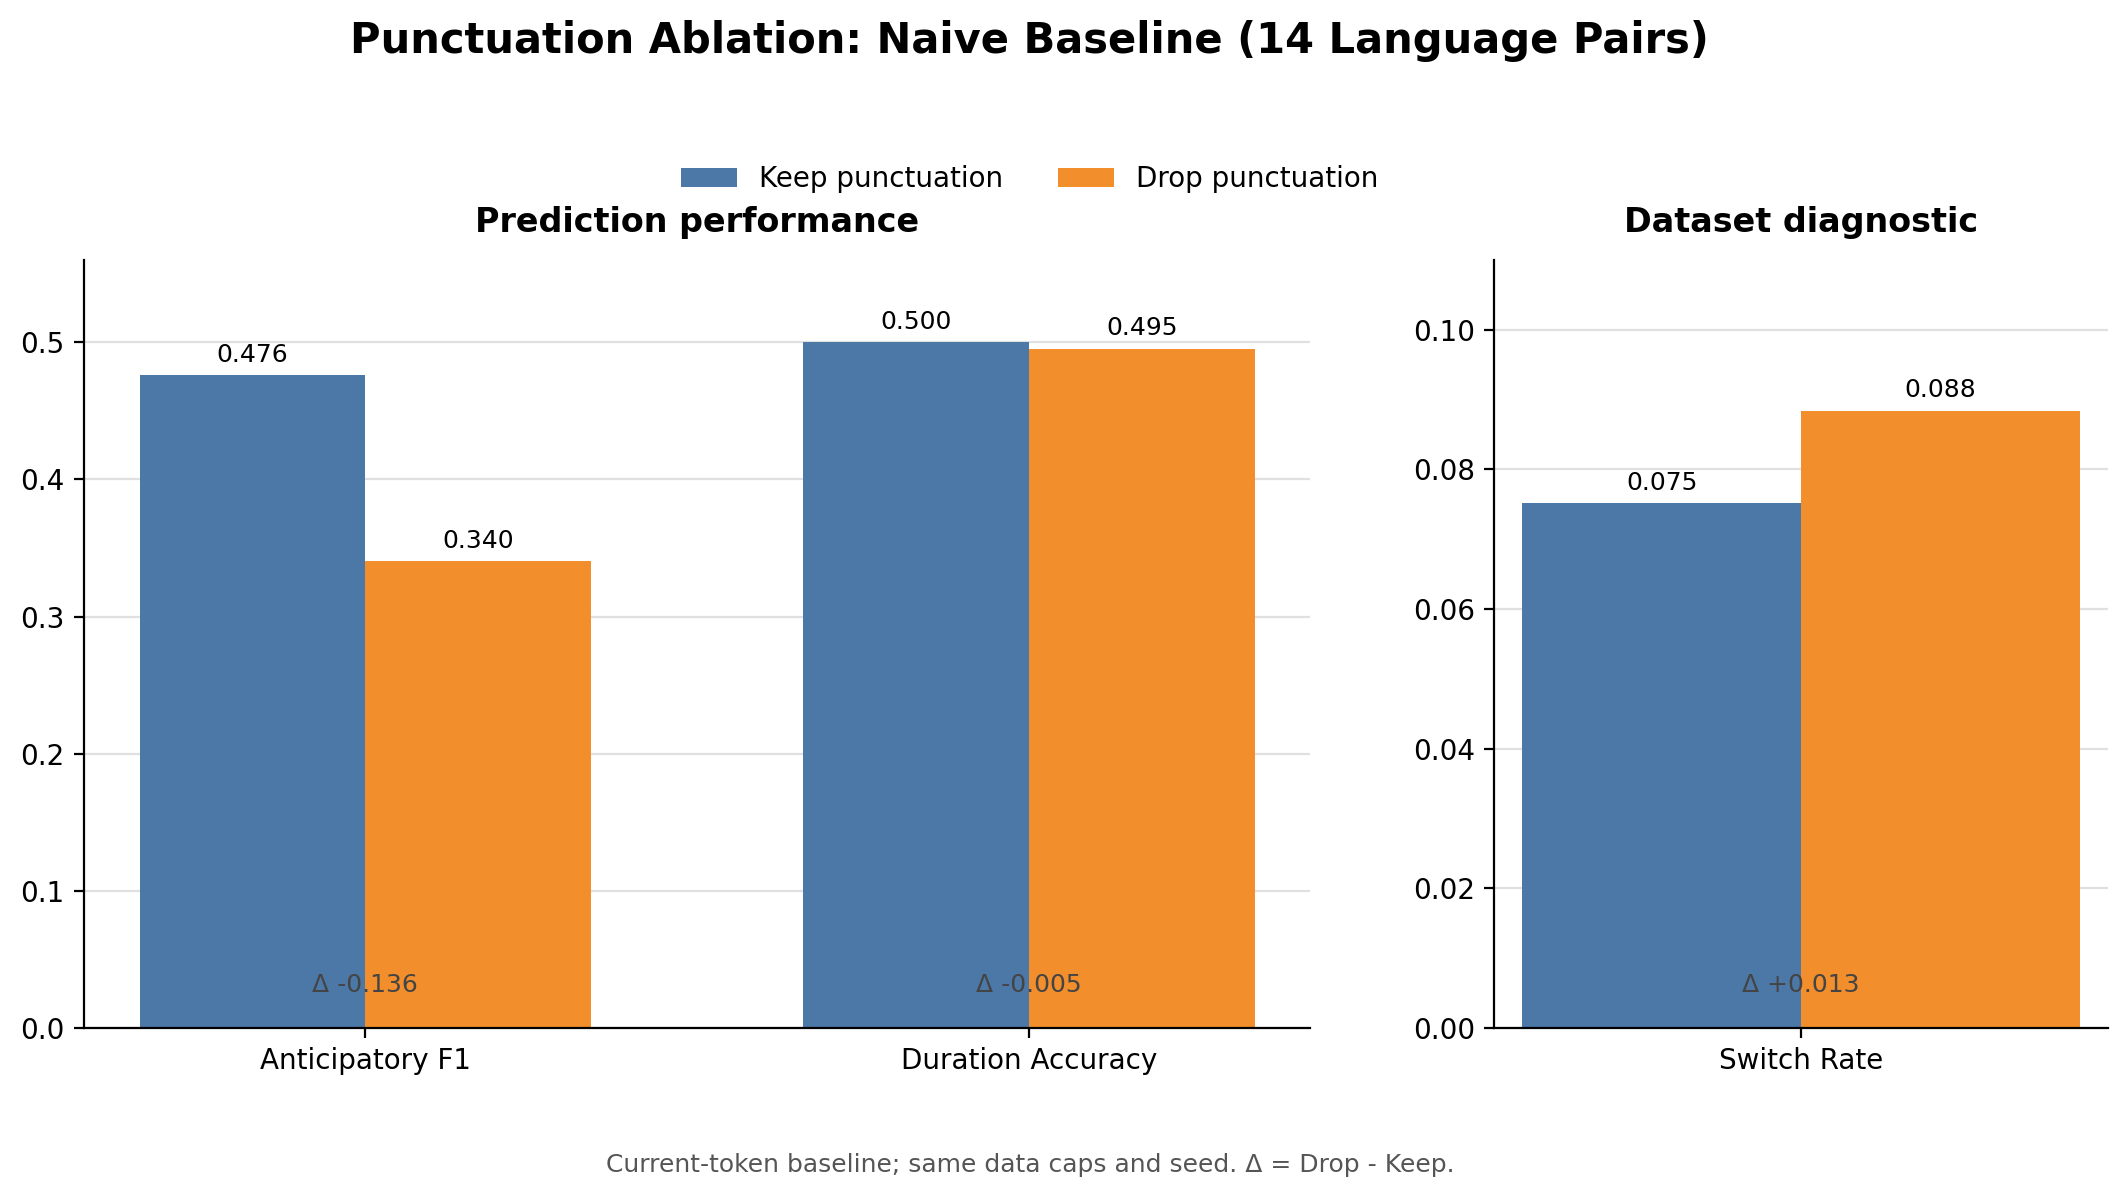
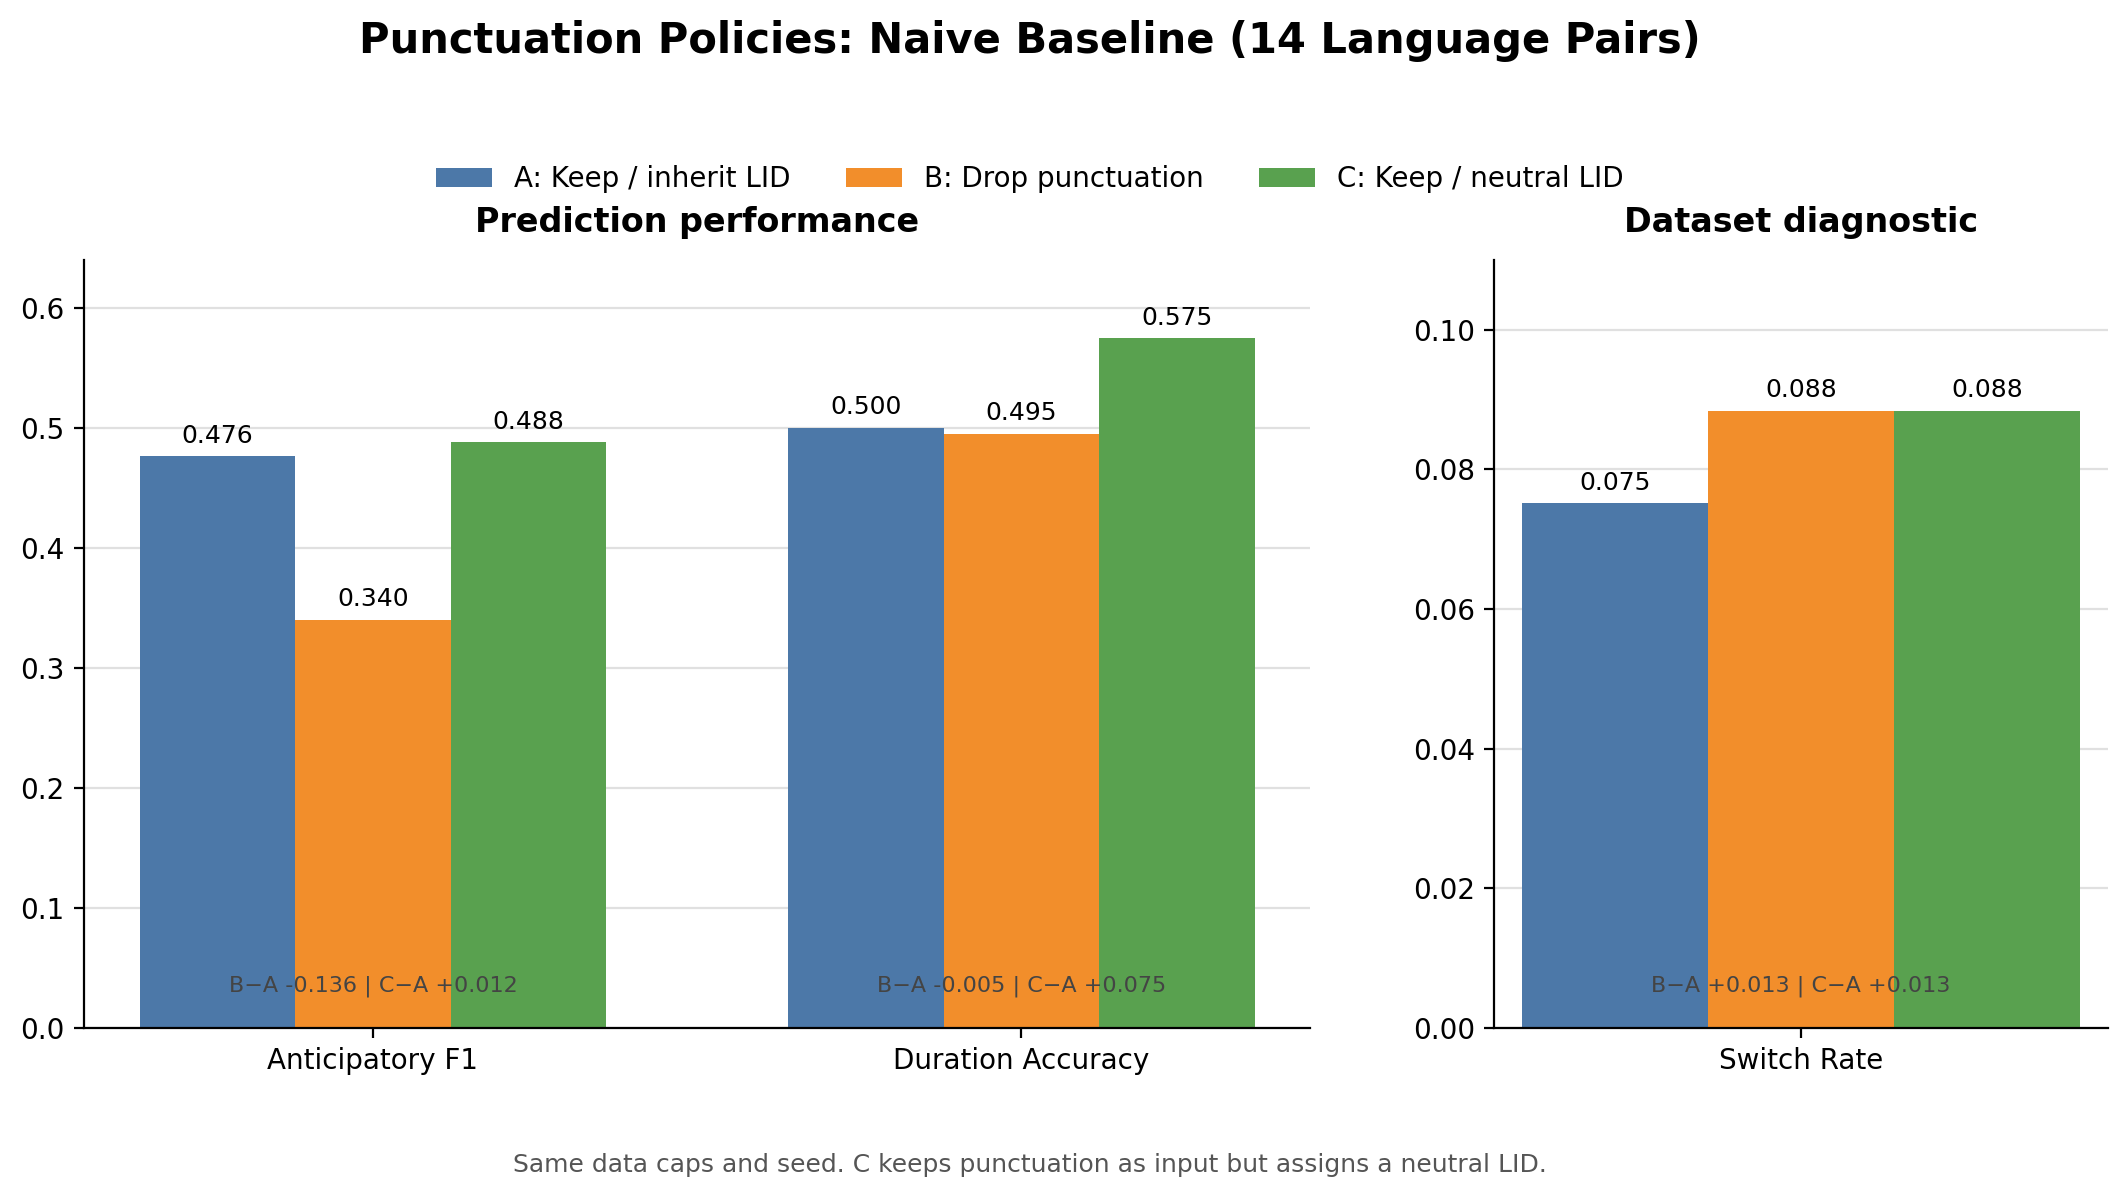
results: compare punctuation approaches A B and C

diff --git a/examples/plot_punctuation_ablation.py b/examples/plot_punctuation_ablation.py
@@ -17,20 +17,27 @@ OUTPUT_PATH = REPO_ROOT / "docs" / "figures" / "punctuation_ablation.png"
 
 def _plot_panel(ax, frame, title, ylim):
     x = range(len(frame))
-    width = 0.34
+    width = 0.24
     keep_bars = ax.bar(
-        [position - width / 2 for position in x],
+        [position - width for position in x],
         frame["Keep"],
         width,
-        label="Keep punctuation",
+        label="A: Keep / inherit LID",
         color="#4C78A8",
     )
     drop_bars = ax.bar(
-        [position + width / 2 for position in x],
+        list(x),
         frame["Drop"],
         width,
-        label="Drop punctuation",
+        label="B: Drop punctuation",
         color="#F28E2B",
+    )
+    neutral_bars = ax.bar(
+        [position + width for position in x],
+        frame["Neutral"],
+        width,
+        label="C: Keep / neutral LID",
+        color="#59A14F",
     )
     ax.set_title(title, fontsize=12, fontweight="bold", pad=10)
     ax.set_xticks(list(x), frame["Metric"])
@@ -39,17 +46,21 @@ def _plot_panel(ax, frame, title, ylim):
     ax.set_axisbelow(True)
     ax.spines[["top", "right"]].set_visible(False)
 
-    for bars in (keep_bars, drop_bars):
+    for bars in (keep_bars, drop_bars, neutral_bars):
         ax.bar_label(bars, fmt="%.3f", padding=3, fontsize=9)
 
-    for position, delta in zip(x, frame["Drop - Keep"]):
+    for position, drop_delta, neutral_delta in zip(
+        x,
+        frame["Drop - Keep"],
+        frame["Neutral - Keep"],
+    ):
         ax.text(
             position,
             ylim * 0.04,
-            f"Δ {delta:+.3f}",
+            f"B−A {drop_delta:+.3f} | C−A {neutral_delta:+.3f}",
             ha="center",
             va="bottom",
-            fontsize=9,
+            fontsize=8,
             color="#444444",
         )
 
@@ -75,13 +86,13 @@ def main():
         figsize=(11, 6),
         gridspec_kw={"width_ratios": [2, 1]},
     )
-    _plot_panel(axes[0], performance, "Prediction performance", 0.56)
+    _plot_panel(axes[0], performance, "Prediction performance", 0.64)
     _plot_panel(axes[1], diagnostics, "Dataset diagnostic", 0.11)
 
     handles, labels = axes[0].get_legend_handles_labels()
-    fig.legend(handles, labels, loc="upper center", ncol=2, frameon=False, bbox_to_anchor=(0.5, 0.88))
+    fig.legend(handles, labels, loc="upper center", ncol=3, frameon=False, bbox_to_anchor=(0.5, 0.88))
     fig.suptitle(
-        "Punctuation Ablation: Naive Baseline (14 Language Pairs)",
+        "Punctuation Policies: Naive Baseline (14 Language Pairs)",
         fontsize=15,
         fontweight="bold",
         y=0.98,
@@ -89,7 +100,7 @@ def main():
     fig.text(
         0.5,
         0.02,
-        "Current-token baseline; same data caps and seed. Δ = Drop - Keep.",
+        "Same data caps and seed. C keeps punctuation as input but assigns a neutral LID.",
         ha="center",
         fontsize=9,
         color="#555555",

diff --git a/examples/test_multitask_integration.py b/examples/test_multitask_integration.py
@@ -8,6 +8,7 @@ from transformers import XLMRobertaConfig, XLMRobertaModel
 
 from src.multitask_model import CausalMultitaskModel
 from src.switchlingua_labels import (
+    PUNCTUATION_MODES,
     load_fast_tokenizer,
     records_from_parquet,
 )
@@ -17,6 +18,12 @@ from src.streaming_dataloader import create_streaming_dataloader
 def main():
     parser = argparse.ArgumentParser()
     parser.add_argument("--pretrained", action="store_true")
+    parser.add_argument(
+        "--punctuation-mode",
+        choices=PUNCTUATION_MODES,
+        default="keep",
+        help="Use Approach A (keep), B (drop), or C (neutral).",
+    )
     args = parser.parse_args()
 
     # 1. Load real SwitchLingua examples.
@@ -28,7 +35,7 @@ def main():
         language_pairs=("Chinese-English", "Spanish-English"),
         max_rows_per_pair=5,
         max_utterances_per_row=2,
-        punctuation_mode="keep",
+        punctuation_mode=args.punctuation_mode,
     )
 
     # Select examples containing a switch within the first 128 tokens.
